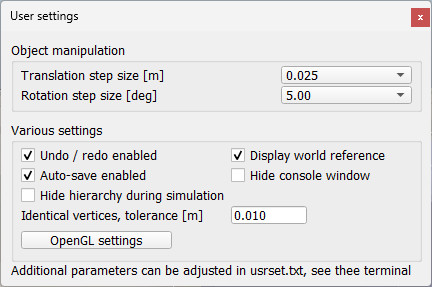
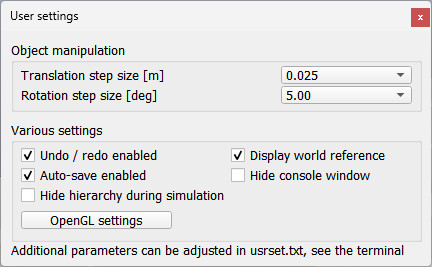
small adjustments for UI change

diff --git a/en/acknowledgments.htm b/en/acknowledgments.htm
@@ -144,7 +144,7 @@ Eric Rohmer who is a thorough CoppeliaSim tester and an &quot;idea machine&quot;
 <li>Emanuel Eichhammer, for his <a href="http://www.customplot.com">QCustomPlot</a> used in the <a href="customUIPlugin.htm">custom UI plugin</a>. <a href="#qcustomplot">See the license</a>.</li>
 <li>Benjamin Navarro, for his code in the legacy remote API, which enables shared memory communication instead of socket communication.</li>
 
-<li>Following people for noticing bugs, reporting problems, suggesting solutions or new ideas, providing patches, code improvements, or simply helping out: Guillermo Presti, Matthias Fueller, Paul Fudal, Matthieu Lapeyre, Alberto Fanjul, Laurens Philippo, Vadim Liventsev, Kirill Makukhin, Patrick Bouffard, Pouya Mohammadi, Luca Marchionni, Barrett Ames, Arnaud Leleve, Geerten Doornenbal, Nikolaus Wittenstein, Ayberk Ozgur, Qi Wang, Giordano, Karl Robillard, Brian Yeomans, Kiyoshi Irie, Ulrich Schwesinger, Peter Mačička, Inkyu Sa, David Butterworth, Marco Cognetti, Xinyu Zhang, Jaqueline Gallardo, Serkan ÇİÇEK, Taehoon Koo, He Tao, Yusuke Ishizawa, Billy Newman, Rüdiger Dehmel, Roberto Marino, Renaud Detry, Roband, Hendrik Wiese, Matthias Schindler, George Moustris, Marco Bellaccini, Klaus Raizer, Paulo Gurgel, Stéphane Magnenat, Philipp Krüsi, Pascal Gohl, Gianpaolo Gonnelli, Felix Herrmann, Edgar Virga, Josep Tormo Costa, Gaël Ecorchard, Massimo Cefalo, Robert Lang, Marc Durvaux, Alexander Rietzler, Matt Derry, Arne Hitzmann, Sergi Foix, Daniel Morberg, Andreas Kuhner, Gerold Huber, Danilo Vasconcellos Vargas, Spencer Krause, Daniel Kuhner, Filip Jares, Luigi Ferri, Michaela Richter, Daniel Lechner, Sven Knüppel, Steve Nguyen, Jonas Sperling, Roberto Guzman, James Besancon, Andrew Vardy, Bipeen Acharya, Fred Gisa, Simon D. Levy, Leopoldo Armesto, Rodrigo Moreno Garcia, Hanna Kurniawati, Dimitri Klimenko, Joshua Mun Song,  Vinay Yadav, Thomas Estier, Matthias Imle, Rosé Rosado, Soner Ulun, Reza Mahjourian, Ben Allan, Riccardo Spica,  Giovanni Claudio, Guenter Schreiber, Antoine Rennuit, Francois Conti, Sébastien Granges, Patrick Helmer, Eva Alves Costa, Lucian Cucu, Sigurd Villumsen, Andrea Censi, Pierre Rouanet, Leander Hille, Christoph Hügle, William Harrison, Scott Drew Pendleton, Jan Dentler, Raimund Krenmüller, Anuraj Rajendraprakash, Ilya Nemihin, Ángel Luis Jiménez García, Leander Hille, Pierre Rouanet, Kenichi Hara, Ilya Nemihin, Federico Ferri, Michael Michalik, Martin Pecka, Nicola Piccinelli, Kshitij Tiwari, Victor Gomez, Parker Owan, Yuki Suga, Muhammad Umer Huzaifa, Marshall Floyd, Augusto Gandia, Pierre Jacquot, Gurvan Le Bleis, Andreu Vidal, Nicola Di Pol, Tobias Groll, Wu Xiaojun, Karol Mocniak, Ana Lucia, Ricardo Azambuja, Anto Ronson, Graeme Neff Wilson, Minson Lee, Tiago Malheiro, Andrew Hundt, Ahmed Yacine, Matthias Ploner, Indranil Sur, Sung Kyun Kim, Rik Timmers, Matthew Veres, Korolyov Alexei, Daniel Angelov, Mohammed Talha, Bartolomeo Della Corte, Scott Hissam, Mark Fink, Hao Wang, Matias Nitsche, Ndivhuwo Makondo, Yu Zhang, DeKita G. Moon, Paul Santiago Tumbaco Casa, Tobias Benz, Rodrigo Moreno Garcia, Arjun Narayanan, Sven Schweigler, Nicola Battilani, Mark Edmonds,  Benno Timmermann, Cándido Otero Moreira, Justin Yim, Allen Zhu, Leo Koppel, Ravi Prakash Joshi, Sina Radmard, Sai Vemprala, Waleed El-Badry, James Barger, Gonzalo Casas, Metehan Doyran, Arif Rahman, Jason Cachrane, Steffen Hemer, Fangyi Zhang, Filipe Rocha, virgile Daugé, Riccardo Spica, Florian Golemo, Kevin M. Lynch, Frank C. Park, Jacob Huesman, Matthew Veres, Cándido Otero, Leon Masopust, Michael Tong, Zhengxing Yang, Thomas Gurriet, Lenka Pitonakova, Hervé Frezza-Buet, Justus Rijke, Stefan Müller, Julien Lechalupe, Tristan Gahler, Robert Peck, William Jones, Benjamin Erdemann, Boris Bogaerts, Ulrich Viereck, Amdrei Florea, Catalin Buiu, Joachim Haensel, Julian Mayer, Jacob Smith, Mohsen Moradi Dalvand, Simon Birrell, Mathias Thor, Jedrzej Orbik, Liu Dong, Mark Hartenstein, Alexander Oliva, Claudio Gaz, Simon Birrell, Sahil Sharma, Adrian Schoisengeier, Rémi Lux, Kilian Freitag, Maël Hörz, Jakub Turaj, Rieky Barady, Jian Ye, Jaime Boal, Pável Axel Mc Campos Peña, Patrick Gruener, Thomas Wilmotte, Lorenzo Romanini, Johan Relefors, Pablo Bustos, Sonny Tarbouriech, Aleksander Sil, Arturs Paugurs, Wei Wei, David Page, Leopoldo Armesto, Ayush Patel, Cameron Kabacinski, Francisco Marin, Kevin Thomas, Nikita Aigner, Charles Han, Shai Levy, Bobovsky Zdenko, Salvatore Sessa, Jakob Ambsdorf, Hayato Amaike, Nathan Kocherhans, Alex Wuqi Zhang, René Simon, Yongdong Wang, Andrés Faíña, Davide Scorza, Jovan Sumarac, Alexander Oliva, Luigi Ascione, Rui Li, Patrick Grüner, Andrés Faíña, Michal Mareš, Kat Styles Wood, David Paulius, Pranav A. Bhounsule, Davide Scorza, Amirhossein Afkhami Ardekani, Roman Horshkov, Volker Kühn, Artem Shishkin, Andrey Voronkov, Vitalii Kudinov, Yong Jiang, github user mfrigerio17... We know we forgot many many people, also significant ones... please let us know!</li>
+<li>Following people for noticing bugs, reporting problems, suggesting solutions or new ideas, providing patches, code improvements, or simply helping out: Guillermo Presti, Matthias Fueller, Paul Fudal, Matthieu Lapeyre, Alberto Fanjul, Laurens Philippo, Vadim Liventsev, Kirill Makukhin, Patrick Bouffard, Pouya Mohammadi, Luca Marchionni, Barrett Ames, Arnaud Leleve, Geerten Doornenbal, Nikolaus Wittenstein, Ayberk Ozgur, Qi Wang, Giordano, Karl Robillard, Brian Yeomans, Kiyoshi Irie, Ulrich Schwesinger, Peter Mačička, Inkyu Sa, David Butterworth, Marco Cognetti, Xinyu Zhang, Jaqueline Gallardo, Serkan ÇİÇEK, Taehoon Koo, He Tao, Yusuke Ishizawa, Billy Newman, Rüdiger Dehmel, Roberto Marino, Renaud Detry, Roband, Hendrik Wiese, Matthias Schindler, George Moustris, Marco Bellaccini, Klaus Raizer, Paulo Gurgel, Stéphane Magnenat, Philipp Krüsi, Pascal Gohl, Gianpaolo Gonnelli, Felix Herrmann, Edgar Virga, Josep Tormo Costa, Gaël Ecorchard, Massimo Cefalo, Robert Lang, Marc Durvaux, Alexander Rietzler, Matt Derry, Arne Hitzmann, Sergi Foix, Daniel Morberg, Andreas Kuhner, Gerold Huber, Danilo Vasconcellos Vargas, Spencer Krause, Daniel Kuhner, Filip Jares, Luigi Ferri, Michaela Richter, Daniel Lechner, Sven Knüppel, Steve Nguyen, Jonas Sperling, Roberto Guzman, James Besancon, Andrew Vardy, Bipeen Acharya, Fred Gisa, Simon D. Levy, Leopoldo Armesto, Rodrigo Moreno Garcia, Hanna Kurniawati, Dimitri Klimenko, Joshua Mun Song,  Vinay Yadav, Thomas Estier, Matthias Imle, Rosé Rosado, Soner Ulun, Reza Mahjourian, Ben Allan, Riccardo Spica,  Giovanni Claudio, Guenter Schreiber, Antoine Rennuit, Francois Conti, Sébastien Granges, Patrick Helmer, Eva Alves Costa, Lucian Cucu, Sigurd Villumsen, Andrea Censi, Pierre Rouanet, Leander Hille, Christoph Hügle, William Harrison, Scott Drew Pendleton, Jan Dentler, Raimund Krenmüller, Anuraj Rajendraprakash, Ilya Nemihin, Ángel Luis Jiménez García, Leander Hille, Pierre Rouanet, Kenichi Hara, Ilya Nemihin, Federico Ferri, Michael Michalik, Martin Pecka, Nicola Piccinelli, Kshitij Tiwari, Victor Gomez, Parker Owan, Yuki Suga, Muhammad Umer Huzaifa, Marshall Floyd, Augusto Gandia, Pierre Jacquot, Gurvan Le Bleis, Andreu Vidal, Nicola Di Pol, Tobias Groll, Wu Xiaojun, Karol Mocniak, Ana Lucia, Ricardo Azambuja, Anto Ronson, Graeme Neff Wilson, Minson Lee, Tiago Malheiro, Andrew Hundt, Ahmed Yacine, Matthias Ploner, Indranil Sur, Sung Kyun Kim, Rik Timmers, Matthew Veres, Korolyov Alexei, Daniel Angelov, Mohammed Talha, Bartolomeo Della Corte, Scott Hissam, Mark Fink, Hao Wang, Matias Nitsche, Ndivhuwo Makondo, Yu Zhang, DeKita G. Moon, Paul Santiago Tumbaco Casa, Tobias Benz, Rodrigo Moreno Garcia, Arjun Narayanan, Sven Schweigler, Nicola Battilani, Mark Edmonds,  Benno Timmermann, Cándido Otero Moreira, Justin Yim, Allen Zhu, Leo Koppel, Ravi Prakash Joshi, Sina Radmard, Sai Vemprala, Waleed El-Badry, James Barger, Gonzalo Casas, Metehan Doyran, Arif Rahman, Jason Cachrane, Steffen Hemer, Fangyi Zhang, Filipe Rocha, virgile Daugé, Riccardo Spica, Florian Golemo, Kevin M. Lynch, Frank C. Park, Jacob Huesman, Matthew Veres, Cándido Otero, Leon Masopust, Michael Tong, Zhengxing Yang, Thomas Gurriet, Lenka Pitonakova, Hervé Frezza-Buet, Justus Rijke, Stefan Müller, Julien Lechalupe, Tristan Gahler, Robert Peck, William Jones, Benjamin Erdemann, Boris Bogaerts, Ulrich Viereck, Amdrei Florea, Catalin Buiu, Joachim Haensel, Julian Mayer, Jacob Smith, Mohsen Moradi Dalvand, Simon Birrell, Mathias Thor, Jedrzej Orbik, Liu Dong, Mark Hartenstein, Alexander Oliva, Claudio Gaz, Simon Birrell, Sahil Sharma, Adrian Schoisengeier, Rémi Lux, Kilian Freitag, Maël Hörz, Jakub Turaj, Rieky Barady, Jian Ye, Jaime Boal, Pável Axel Mc Campos Peña, Patrick Gruener, Thomas Wilmotte, Lorenzo Romanini, Johan Relefors, Pablo Bustos, Sonny Tarbouriech, Aleksander Sil, Arturs Paugurs, Wei Wei, David Page, Leopoldo Armesto, Ayush Patel, Cameron Kabacinski, Francisco Marin, Kevin Thomas, Nikita Aigner, Charles Han, Shai Levy, Bobovsky Zdenko, Salvatore Sessa, Jakob Ambsdorf, Hayato Amaike, Nathan Kocherhans, Alex Wuqi Zhang, René Simon, Yongdong Wang, Andrés Faíña, Davide Scorza, Jovan Sumarac, Alexander Oliva, Luigi Ascione, Rui Li, Patrick Grüner, Andrés Faíña, Michal Mareš, Kat Styles Wood, David Paulius, Pranav A. Bhounsule, Davide Scorza, Amirhossein Afkhami Ardekani, Roman Horshkov, Volker Kühn, Artem Shishkin, Andrey Voronkov, Vitalii Kudinov, Yong Jiang, github user mfrigerio17, Elia Cereda... We know we forgot many many people, also significant ones... please let us know!</li>
 
 <p>
 I also wish to thank following people for the inspiration they provided in various fields through their publications, books or other means:

diff --git a/en/bubbleRobTutorial.htm b/en/bubbleRobTutorial.htm
@@ -27,7 +27,7 @@
 
 <p>Since this tutorial will fly over many different aspects, make sure to also have a look at the <a href="tutorials.htm">other tutorials</a>, mainly the <a href="buildingAModelTutorial.htm">tutorial about building a simulation model</a>. First of all, freshly start CoppeliaSim. The simulator displays a default <a href="scenes.htm">scene</a>. We will start with the body of <em>BubbleRob</em>.</p>
 
-<p>We add a primitive sphere of diameter 0.2 to the scene with [Menu bar --&gt; Add --&gt; Primitive shape --&gt; Sphere]. We adjust the <strong>X-size</strong> item to 0.2, then click <strong>OK</strong>. The created sphere will appear in the <a href="layerSelectionDialog.htm">visibility layer</a> 1 by default, and be <a href="designingDynamicSimulations.htm#staticAndRespondable">dynamic and respondable</a> (since we kept the item <strong>Create dynamic and respondable shape</strong> enabled). This means that <em>BubbleRob's</em> body will be falling and able to react to collisions with other respondable shapes (i.e. simulated by the physics engine). We can see this is the <a href="shapeDynamicsProperties.htm">shape dynamics properties</a>: items <strong>Body is respondable</strong> and <strong>Body is dynamic</strong> are enabled. We start the simulation (via the toolbar button, or by pressing &lt;control-space&gt; in the scene window), and copy-and-paste the created sphere (with [Menu bar --&gt; Edit --&gt; Copy selected objects] then [Menu bar --&gt; Edit -&gt; Paste buffer], or with &lt;control-c&gt; then &lt;control-v&gt;): the two spheres will react to collision and roll away. We stop the simulation: the duplicated sphere will automatically be removed. This default behaviour can be modified in the <a href="simulationPropertiesDialog.htm">simulation dialog</a>.</p>
+<p>We add a primitive sphere of diameter 0.2 to the scene with [Menu bar --&gt; Add --&gt; Primitive shape --&gt; Sphere]. We adjust the <strong>X-size</strong> item to 0.2, then click <strong>OK</strong>. The created sphere will appear in the <a href="layerSelectionDialog.htm">visibility layer</a> 1 by default, and be <a href="designingDynamicSimulations.htm#staticAndRespondable">dynamic and respondable</a> (since we kept the item <strong>Create dynamic and respondable shape</strong> enabled). This means that <em>BubbleRob's</em> body will be falling and able to react to collisions with other respondable shapes (i.e. simulated by the physics engine). We can see this is the <a href="shapeDynamicsProperties.htm">shape dynamics properties</a>: items <strong>Body is respondable</strong> and <strong>Body is dynamic</strong> are enabled. We start the simulation (via the toolbar button, or by pressing &lt;control-space&gt; in the scene window), and copy-and-paste the created sphere (with [Menu bar --&gt; Edit --&gt; Copy object(s)] then [Menu bar --&gt; Edit -&gt; Paste buffer], or with &lt;control-c&gt; then &lt;control-v&gt;): the two spheres will react to collision and roll away. We stop the simulation: the duplicated sphere will automatically be removed. This default behaviour can be modified in the <a href="simulationPropertiesDialog.htm">simulation dialog</a>.</p>
 
 <p>We also want the <em>BubbleRob's</em> body to by usable by the other calculation modules (e.g. <a href="distanceCalculation.htm">distance calculation</a>). For that reason, we enable <a href="collidableObjects.htm">Collidable</a>, <a href="measurableObjects.htm">Measurable</a> and <a href="detectableObjects.htm">Detectable</a> in the <a href="commonPropertiesDialog.htm">object common properties</a> for that shape, if not already enabled. If we wanted, we could now also change the visual appearance of our sphere in the <a href="shapeProperties.htm">shape properties</a>.</p>
 
@@ -36,7 +36,7 @@
 <p>Next we will add a <a href="proximitySensors.htm">proximity sensor</a> so that <em>BubbleRob</em> knows when it is approaching obstacles: we select [Menu bar --&gt; Add --&gt; Proximity sensor --&gt; Cone type]. In the <a href="orientationDialog.htm">orientation dialog</a> on the <strong>orientation</strong> tab, we enter 90 for <strong>Around Y</strong> and for <strong>Around Z</strong>, then click <strong>Rotate selection</strong>. In the <a href="positionDialog.htm">position dialog</a>, on the <strong>position</strong> tab, we enter 0.1 for <strong>X-coord.</strong> and 0.12 for <strong>Z-coord.</strong> The proximity sensor is now correctly positioned relative to <em>BubbleRob's</em> body. We double-click the proximity sensor's icon in the <a href="userInterface.htm#SceneHierarchy">scene hierarchy</a> to open <a href="proximitySensorPropertiesDialog.htm">its properties</a> dialog. We click <strong>Show volume parameter </strong> to open the <a href="proximitySensorVolumeDialog.htm">proximity sensor volume dialog</a>. We adjust items <strong>Offset</strong> to 0.005, <strong>Angle</strong> to 30 and <strong>Range</strong> to 0.15. Then, in the <a href="proximitySensorPropertiesDialog.htm">proximity sensor properties</a>, we click <strong>Show detection parameters</strong>. This opens the <a href="proximitySensorDetectionParameterDialog.htm">proximity sensor detection parameter dialog</a>. We uncheck item <strong>Don't allow detections if distance smaller than</strong> then close that dialog again. In the scene hierarchy, we double-click the proximity sensor's alias in order to edit it. We enter <em>sensingNose</em> and press enter.<br>
 </p>
 
-<p>We select <em>sensingNose</em>, then control-select <em>bubbleRob</em>, then click [Menu bar --&gt; Edit --&gt; Make last selected object parent]. This attaches the sensor to the body of the robot. We could also have dragged <em>sensingNose</em> onto <em>bubbleRob</em> in the scene hierarchy. This is what we now have:<br>
+<p>We select <em>sensingNose</em>, then control-select <em>bubbleRob</em>, then click [Menu bar --&gt; Edit --&gt; Set parent, keep pose(s)]. This attaches the sensor to the body of the robot. We could also have dragged <em>sensingNose</em> onto <em>bubbleRob</em> in the scene hierarchy. This is what we now have:<br>
 </p>
 
 <p align=center><img src="images/bubbleRobTut2.jpg"></p>

diff --git a/en/inverseKinematicsTutorial.htm b/en/inverseKinematicsTutorial.htm
@@ -71,7 +71,7 @@
 <p>At this point you can rename all objects in the scene in following way, when going from base to tip: <em>redundantRobot</em> -  <em>redundantRob_joint1</em>  - <em>redundantRob_link1</em> - <em>redundantRob_joint2</em>, etc. Just double-click an object's alias in the scene hierarchy to edit it.<br>
 </p>
 
-<p>Now we can build the kinematic chain, going from tip to base: select object <em>redundantRob_link7</em>, then ctrl-select object <em>redundantRob_joint7</em> and click [Menu bar --&gt; Edit --&gt; Make last selected object parent]. Alternatively you can drag an object onto another one in the scene hierarchy to achieve a similar operation. Next do the same for object <em>redundantRob_joint7</em> and object <em>redundantRob_link6</em>. Continue in a same way until the whole kinematic chain of the manipulator was built. This is what you should have (notice the scene hierarchy structure):<br>
+<p>Now we can build the kinematic chain, going from tip to base: select object <em>redundantRob_link7</em>, then ctrl-select object <em>redundantRob_joint7</em> and click [Menu bar --&gt; Edit --&gt; Set parent, keep pose(s)]. Alternatively you can drag an object onto another one in the scene hierarchy to achieve a similar operation. Next do the same for object <em>redundantRob_joint7</em> and object <em>redundantRob_link6</em>. Continue in a same way until the whole kinematic chain of the manipulator was built. This is what you should have (notice the scene hierarchy structure):<br>
 </p>
 
 <p align=center><img src="images/ikTut6.jpg"></p>
@@ -81,7 +81,7 @@
 <p>In CoppeliaSim, an IK task requires specifying at least following elements:</p>
 <li>a kinematic chain described with a <em>tip</em> dummy and a <em>base</em> object. </li>
 <li>a <em>target</em> dummy that the <em>tip</em> dummy will be constrained to follow. </li>
-<p>We already have the base object (object <em>redundantRobot</em>). Let's add a <a href="dummies.htm">dummy object</a>, rename it to <em>redundantRob_tip</em> and set its position to (0.324,0,0.62) using the coordinate and transformation dialog. Next, attach the dummy to <em>redundantRob_link7</em> (select <em>redundantRob_tip</em>, then <em>redundantRob_link7</em>, then [Menu bar --&gt; Edit --&gt; Make last selected object parent]. The <em>tip</em> dummy is ready!<br>
+<p>We already have the base object (object <em>redundantRobot</em>). Let's add a <a href="dummies.htm">dummy object</a>, rename it to <em>redundantRob_tip</em> and set its position to (0.324,0,0.62) using the coordinate and transformation dialog. Next, attach the dummy to <em>redundantRob_link7</em> (select <em>redundantRob_tip</em>, then <em>redundantRob_link7</em>, then [Menu bar --&gt; Edit --&gt; Set parent, keep pose(s)]. The <em>tip</em> dummy is ready!<br>
 </p>
 <p>Now let's prepare the <em>target</em> dummy: copy and paste <em>redundantRob_tip</em> and rename the copy to <em>redundantRob_target</em>. The <em>target</em> dummy is ready.</p>
 <p>Now we will  add a way to easily manipulate the robot, without having to worry about breaking it by shifting the wrong objects around. We will therefore define it as a <a href="models.htm">model</a>. First, move <em>redundantRob_tip</em> and <em>redundantRob_target</em> to layer 11 to make both dummies invisible. Then shift-select all visible objects in the scene view, ctrl-click the object <em>redundantRobot</em> in the scene hierarchy to remove it from the selection, then open the <a href="commonPropertiesDialog.htm">object common properties</a> dialog. Check the <strong>Select base of model instead</strong> item, then the related <strong>Apply to selection</strong> button. Clear the selection with &lt;ESC&gt;, then select <em>redundantRobot</em>. In the same dialog, check the <strong>Object is model base</strong> item, then close the dialogs. Notice how a stippled bounding box now encompasses the whole manipulator:<br>

diff --git a/en/buildingAModelTutorial.htm b/en/buildingAModelTutorial.htm
@@ -193,7 +193,7 @@
 <p class=imageLabel>[Original shape, and convex decomposed shape pendant]</p>
 <br>
 
-<p>We now repeat the same procedure for all remaining robot links. Once that is done, we attach each visible shape to its corresponding invisible dynamic pendant. We do this by selecting first the visible shape, then via control-click selecting its dynamic pendant then [Menu bar --&gt; Edit --&gt; Make last selected object parent]. The same result can be achieved by dragging the visible shape onto its dynamic pendant in the <a href="userInterface.htm#SceneHierarchy">scene hierarchy</a>:</p>
+<p>We now repeat the same procedure for all remaining robot links. Once that is done, we attach each visible shape to its corresponding invisible dynamic pendant. We do this by selecting first the visible shape, then via control-click selecting its dynamic pendant then [Menu bar --&gt; Edit --&gt; Set parent, keep pose(s)]. The same result can be achieved by dragging the visible shape onto its dynamic pendant in the <a href="userInterface.htm#SceneHierarchy">scene hierarchy</a>:</p>
 
 <p align=center><img src="images/modelTut18.jpg"></p>
 <p class=imageLabel>[Visible shapes attached to their dynamic pendants]</p>
@@ -212,7 +212,7 @@
 <a name="modelDefinition"></a>Model definition
 </h2>
 
-<p>Now we are ready to define our model. We start by building the model herarchy: we attach the last dynamic robot link (<em>robot_link_dyn6</em>) to its corresponding joint (<em>robot_joint6</em>) by selecting <em>robot_link_dyn6</em>, then control-selecting <em>robot_joint6</em>, then [Menu bar --&gt; Edit --&gt; Make last selected object parent]. We could also have done this step by simply dragging object <em>robot_link_dyn6</em> onto <em>robot_link6</em> in the <a href="userInterface.htm#SceneHierarchy">scene hierarchy</a>. We go on by now attaching <em>robot_joint6</em> to <em>robot_link_dyn5</em>, and so on, until arrived at the base of the robot. We now have following scene hierarchy:</p>
+<p>Now we are ready to define our model. We start by building the model herarchy: we attach the last dynamic robot link (<em>robot_link_dyn6</em>) to its corresponding joint (<em>robot_joint6</em>) by selecting <em>robot_link_dyn6</em>, then control-selecting <em>robot_joint6</em>, then [Menu bar --&gt; Edit --&gt; Set parent, keep pose(s)]. We could also have done this step by simply dragging object <em>robot_link_dyn6</em> onto <em>robot_link6</em> in the <a href="userInterface.htm#SceneHierarchy">scene hierarchy</a>. We go on by now attaching <em>robot_joint6</em> to <em>robot_link_dyn5</em>, and so on, until arrived at the base of the robot. We now have following scene hierarchy:</p>
 
 <p align=center><img src="images/modelTut19.jpg"></p>
 <p class=imageLabel>[Robot model hierarchy]</p>

diff --git a/en/objectParameterIDs.htm b/en/objectParameterIDs.htm
@@ -162,7 +162,8 @@
 <div>sim.shapefloatparam_init_velocity_a </div><div class=tab>float parameter : alpha-component of the initial dynamic angular velocity of a dynamically enabled shape (static or non-static). The shape might have to be reset with <a href="regularApi/simResetDynamicObject.htm">sim.resetDynamicObject</a></div>
 <div>sim.shapefloatparam_init_velocity_b </div><div class=tab>float parameter : beta-component of the initial dynamic angular velocity of a dynamically enabled shape (static or non-static). The shape might have to be reset with <a href="regularApi/simResetDynamicObject.htm">sim.resetDynamicObject</a></div>
 <div>sim.shapefloatparam_init_velocity_g </div><div class=tab>float parameter : gamma-component of the initial dynamic angular velocity of a dynamically enabled shape (static or non-static). The shape might have to be reset with <a href="regularApi/simResetDynamicObject.htm">sim.resetDynamicObject</a></div>
-<div>sim.shapestringparam_color_name </div><div class=tab>string parameter : the color name(s) contained in the shape. If several color strings are contained, they are separated by a space character. You can use those strings to modify the color of a simple shape contained in a compound shape with <a href="regularApi/simSetShapeColor.htm">sim.setShapeColor</a>. This parameter can only be written for shapes that are not compound shapes.</div>
+<div>sim.shapestringparam_colorname </div>
+<div class=tab>string parameter : the color name(s) contained in the shape. If several color strings are contained, they are separated by a space character, unnamed colors are represented by '*'. You can use those strings to modify the color of a simple shape contained in a compound shape with <a href="regularApi/simSetShapeColor.htm">sim.setShapeColor</a>. This parameter can only be written for shapes that are not compound shapes.</div>
 <div>sim.shapeintparam_edge_visibility </div><div class=tab>int32 parameter : edge visibility state (0 or !=0).</div>
 <div>sim.shapefloatparam_shading_angle </div><div class=tab>float parameter : shading angle.</div>
 <div>sim.shapefloatparam_edge_angle </div><div class=tab>float parameter : edge threshold angle.</div>

diff --git a/en/versionInfo.htm b/en/versionInfo.htm
@@ -47,7 +47,7 @@ Version history:
 <a name="coppeliaSim4.6.0" id="coppeliaSim4.6.0"></a>CoppeliaSim V4.6.0 (not yet released)
 </h2>
  
-<li>Fixed several bugs. Thanks to Samuel Cavalcanti and github user mfrigerio17 for noticing them or helping to resolve them</li>
+<li>Fixed several bugs. Thanks to Samuel Cavalcanti, Elia Cereda and github user mfrigerio17 for noticing them or helping to resolve them</li>
 
 <br>
 <br>
@@ -871,7 +871,7 @@ Version history:
 
 <br><h2>V-REP V2.6.2 (March 18th 2012)</h2> 
 <li>Since this release, the concept of "simulator instances"  has been abandonned for the concept of "scenes". Functionality basically stays same, but now matches the standard approach. An unlimited number of <a href="scenes.htm">scenes</a> can now be opened, also in the player version of V-REP</li>
-<li>Tree elements in the <a href="userInterface.htm#SceneHierarchy">scene hierarchy</a> can now be drag-and-dropped onto other objects for convenient parent-child relationship building (similar to [Menu bar --> Edit --> Make last selected object parent] or [Menu bar --> Edit --> Make last selected object(s) orphan])</li>
+<li>Tree elements in the <a href="userInterface.htm#SceneHierarchy">scene hierarchy</a> can now be drag-and-dropped onto other objects for convenient parent-child relationship building (similar to [Menu bar --> Edit --> Set parent, keep pose(s)] or [Menu bar --> Edit --> Set parent-less])</li>
 <li>All <a href="userInterface.htm#SceneHierarchy">scene hierarchy</a> icons have been redesigned</li>
 <li>All <a href="userInterface.htm#toolbars">toolbar buttons</a> have been redesigned</li>
 <li>The <a href="userInterface.htm#SceneHierarchy">scene hierarchy</a> now also visualizes all opened scenes, and switching between scenes is achieved with a simple click</li>

diff --git a/en/simIK.htm b/en/simIK.htm
@@ -267,7 +267,7 @@ td.section { margin: 0; padding: 0; }
 </tr>
 <tr class="apiTableTr">
 <td class="apiTableLeftLSyn">Lua synopsis</td>
-<td class="apiTableRightLSyn">int ikElement,map simToIkObjectMap=simIK.addElementFromScene(int environmentHandle,int ikGroup,int baseHandle,int tipHandle,int targetHandle,int constraints)</td>
+<td class="apiTableRightLSyn">int ikElement,map simToIkObjectMap,map ikToSimObjectMap=simIK.addElementFromScene(int environmentHandle,int ikGroup,int baseHandle,int tipHandle,int targetHandle,int constraints)</td>
 </tr>
 <tr class="apiTableTr">
 <td class="apiTableLeftLParam">Lua arguments</td>
@@ -283,14 +283,15 @@ td.section { margin: 0; padding: 0; }
 <tr class="apiTableTr">
 <td class="apiTableLeftLRet">Lua return values</td>
 <td class="apiTableRightLRet">
-<div><strong>ikElement</strong>: the handle of the created IK element.</div>
-<div><strong>simToIkObjectMap</strong>: the mapping of scene object to IK environment objects.</div>
+<div><strong>ikElement</strong>: the handle of the created IK element</div>
+<div><strong>simToIkObjectMap</strong>: the mapping of scene objects to IK environment objects</div>
+<div><strong>ikToSimObjectMap</strong>: the mapping of IK environment objects to scene objects</div>
 </td>
 </tr>
 
 <tr class="apiTableTr">
 <td class="apiTableLeftPSyn">Python synopsis</td>
-<td class="apiTableRightPSyn">int ikElement,list simToIkObjectMap=simIK.addElementFromScene(int environmentHandle,int ikGroup,int baseHandle,int tipHandle,int targetHandle,int constraints)</td>
+<td class="apiTableRightPSyn">int ikElement,list simToIkObjectMap,list ikToSimObjectMap=simIK.addElementFromScene(int environmentHandle,int ikGroup,int baseHandle,int tipHandle,int targetHandle,int constraints)</td>
 </tr>
 
 <tr class="apiTableTr">

diff --git a/en/objects.htm b/en/objects.htm
@@ -52,7 +52,7 @@ Some of above objects can have special properties allowing other objects or <a h
 <li><a href="detectableObjects.htm">Detectable</a>: detectable objects can be detected by <a href="proximitySensors.htm">proximity sensors</a>. </li>
 <li><a href="viewableObjects.htm">Viewable</a>: viewable objects can be <em>looked through</em>, <em>looked at</em>, or their image content can be visualized in views. Refer to the<a href="pagesAndViews.htm"> pages and views-section</a> for more information </li>
 
-<p>Each object has a position and orientation within the simulation scene. We refer to an object's position and orientation as configuration of the object. Objects can be attached to other objects (or built on top of each other). If object A is built on top of object B, then object B is the parent and object A is the child. To create a parent-child relationships between object B and object A, select object A, then select object B (the selection order is important). Then select [Menu bar --&gt; Edit --&gt; Make last selected object parent]. Following figure illustrates this operation:<br>
+<p>Each object has a position and orientation within the simulation scene. We refer to an object's position and orientation as configuration of the object. Objects can be attached to other objects (or built on top of each other). If object A is built on top of object B, then object B is the parent and object A is the child. To create a parent-child relationships between object B and object A, select object A, then select object B (the selection order is important). Then select [Menu bar --&gt; Edit --&gt; Set parent, keep pose(s)]. Following figure illustrates this operation:<br>
 </p>
 
 <p align=center><img src="images/sceneObjects3.jpg"></p>

diff --git a/en/designingDynamicSimulations.htm b/en/designingDynamicSimulations.htm
@@ -206,7 +206,7 @@
 <br>
 
 <p>
-Notice the model icon next to the 'robot' and 'gripper' shape objects. This indicates that all objects built on top of them are part of the same model definition. The two models operate well on their own. However if you try to attach the gripper on top of the robot (by selecting the gripper model, then the robot model, then clicking [Menu bar --&gt; Edit --&gt; Make last selected object parent]), the gripper will not be staying fixed on the robot during simulation. Following is the scene hierarchy of above two models, where the gripper has been attached to the robot:
+Notice the model icon next to the 'robot' and 'gripper' shape objects. This indicates that all objects built on top of them are part of the same model definition. The two models operate well on their own. However if you try to attach the gripper on top of the robot (by selecting the gripper model, then the robot model, then clicking [Menu bar --&gt; Edit --&gt; Set parent, keep pose(s)]), the gripper will not be staying fixed on the robot during simulation. Following is the scene hierarchy of above two models, where the gripper has been attached to the robot:
 </p>
 
 <p align=center><img src="images/dynamicsDesign13.jpg"></p>

diff --git a/en/settings.htm b/en/settings.htm
@@ -39,8 +39,6 @@
 
 <li> <strong>Hide console window</strong>: allows hiding or showing the <a href="userInterface.htm#ConsoleWindow">console window</a>. By default, the console window is hidden. On Mac, this item is not available (the standard output can be viewed in the system console (Applications/Utilities/Console)).</li>
 <li> <strong>Hide hierarchy during simul.</strong>: automatically hides the scene hierarchy when simulation is running.</li>
-<li> <strong>Identical vertices, tolerance</strong>: vertices that lay nearby other vertices will be grouped to form one single vertex (that will then be shared among surrounding triangles).<br>
-</li>
 
 <li> <strong>OpenGL settings</strong>: opens a dialog that allows to adjust most settings related to OpenGL:</li>
 
